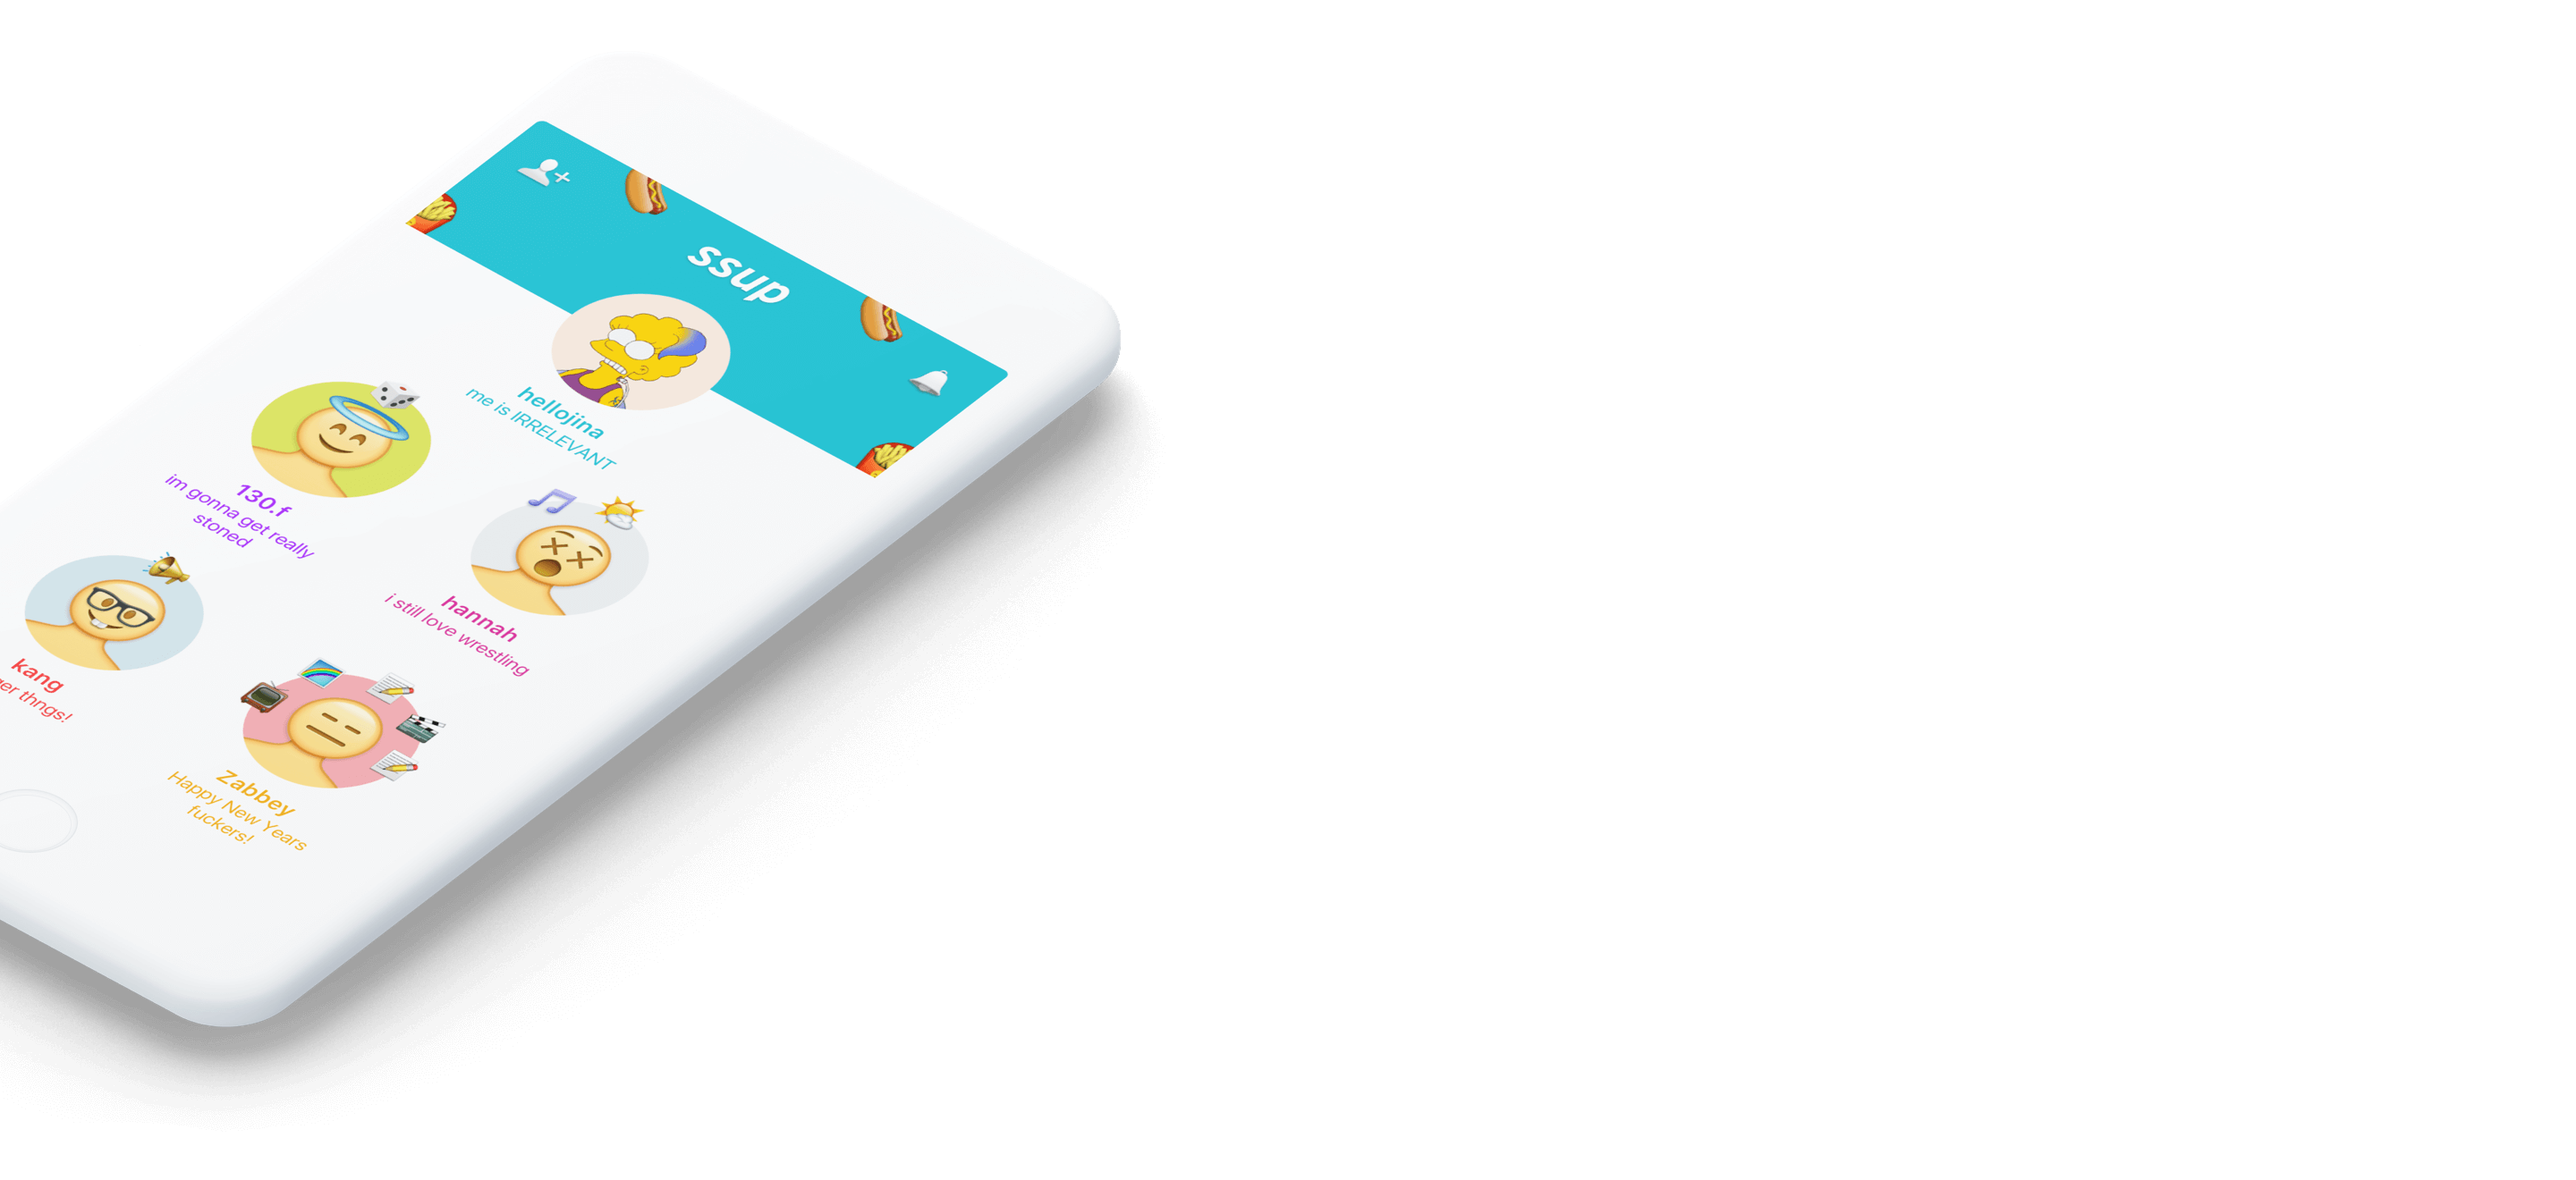
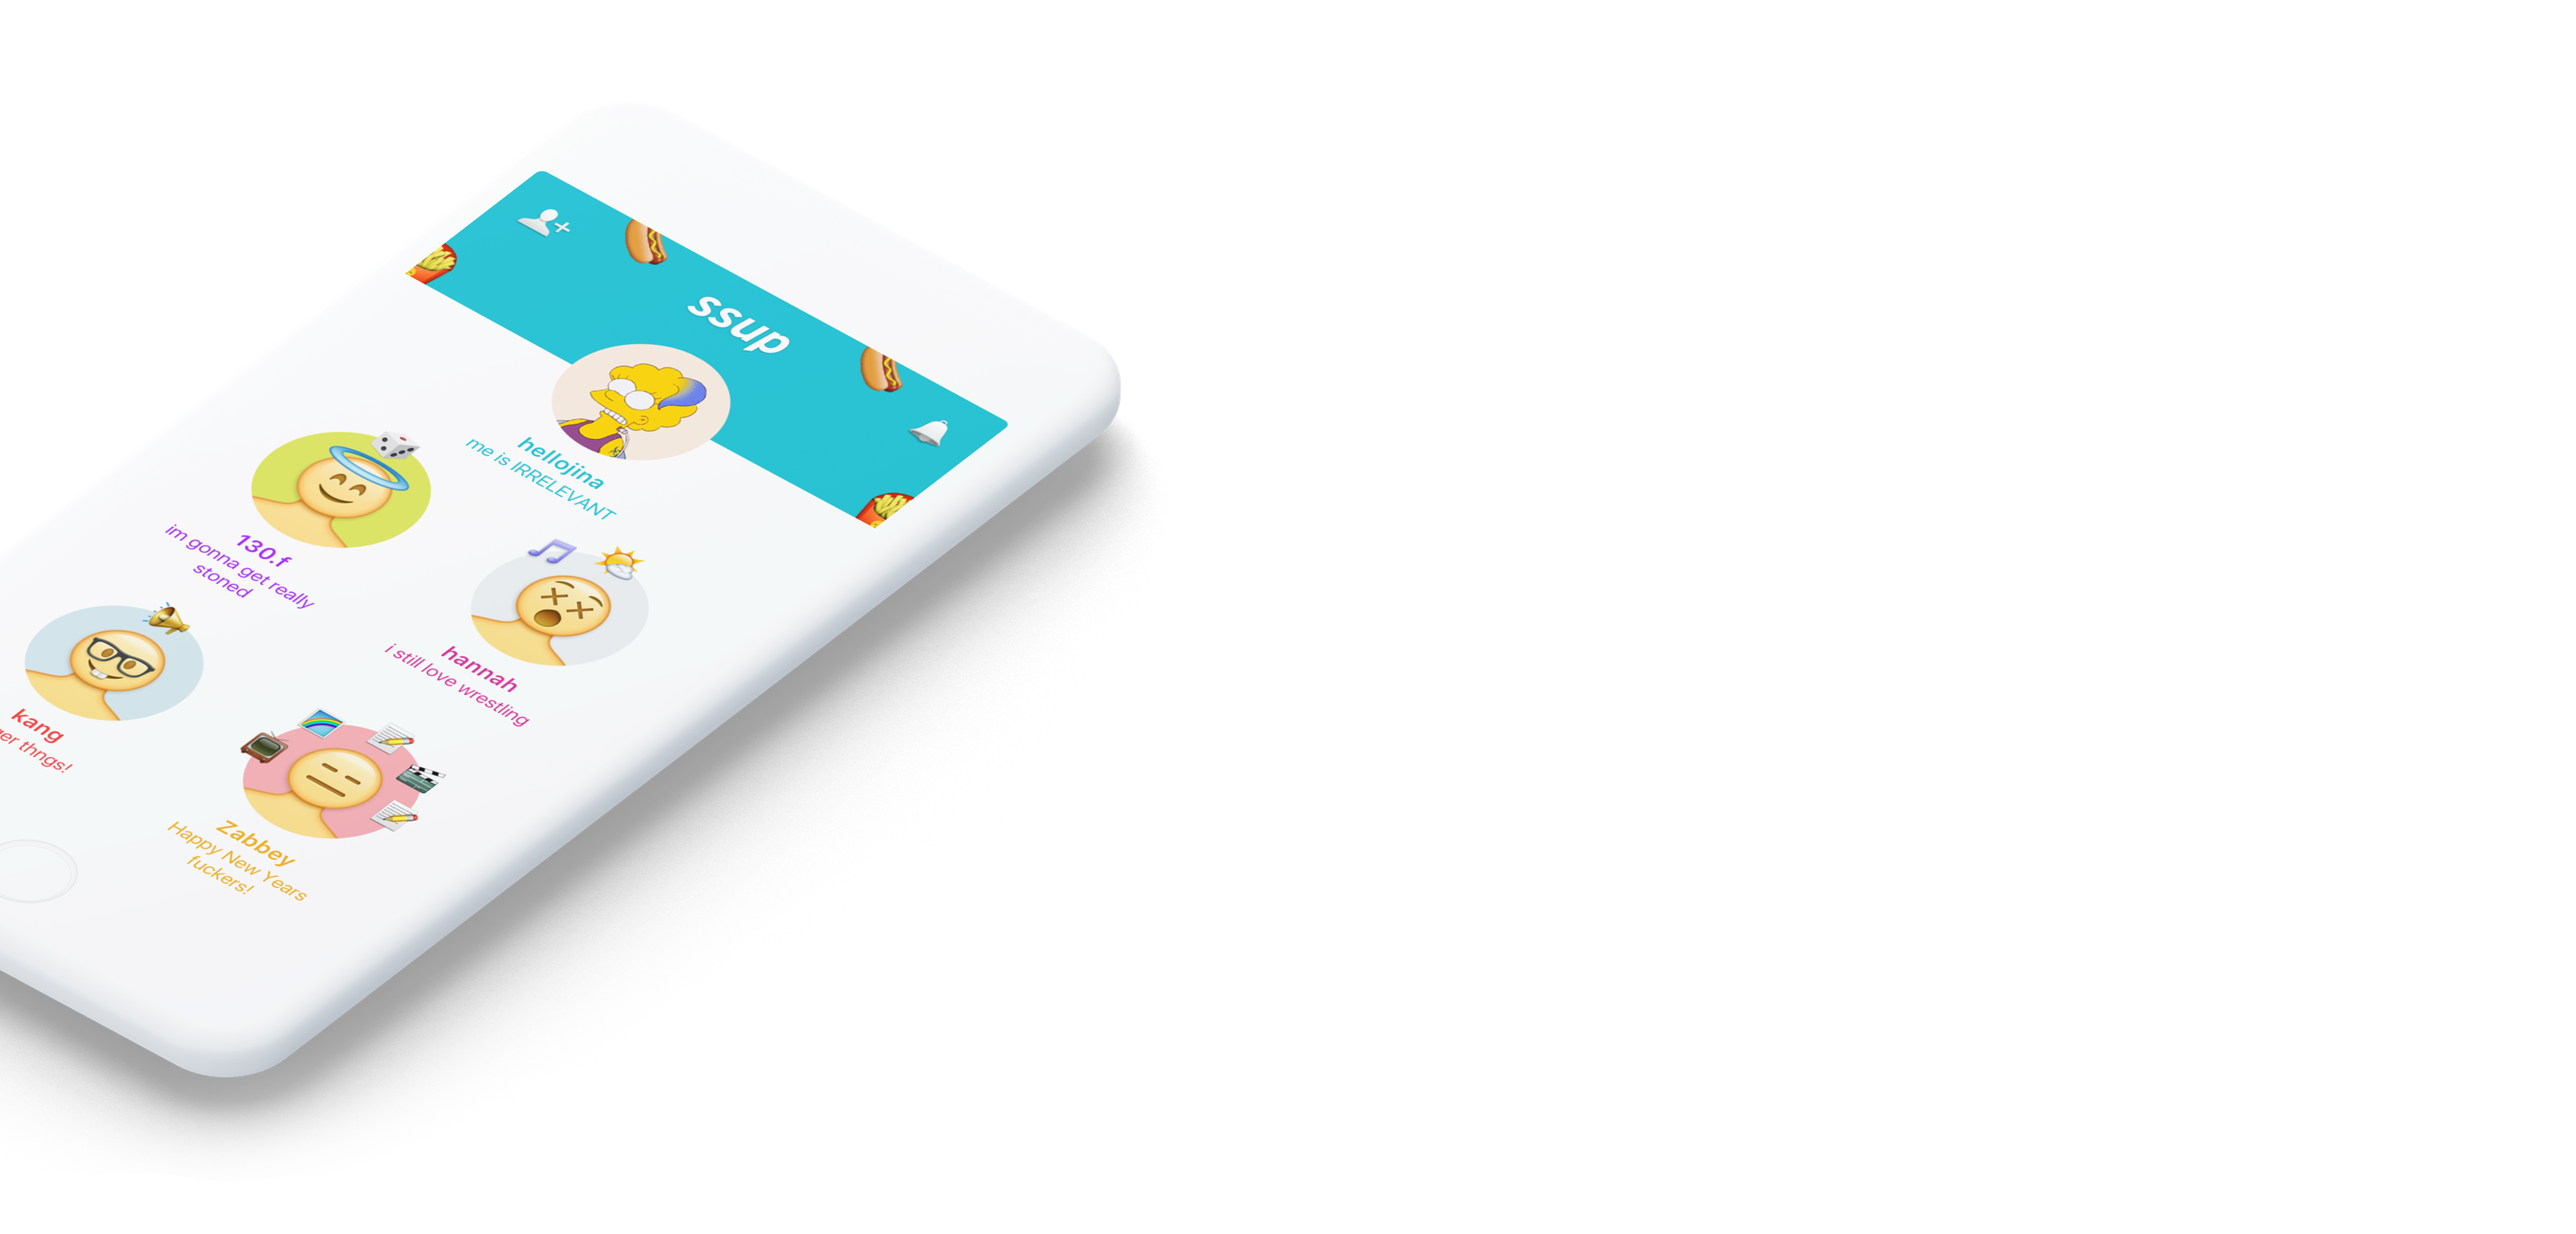
Edit Description

diff --git a/ssup.html b/ssup.html
@@ -42,29 +42,30 @@
     </div><!-- /container-->
 </div><!-- /detailtop-->
 
+
+<div class="des">
+    <img src="./img/ssup/ssup_img01.png" class="des01 width100">
     
-<div class="des" id="ssup_des">
     <div class="container">
-        <div class="row">
-            
-            <div class="col-xl-6 offset-xl-6 col-lg-6 offset-lg-6 col-md-12 col-sm-12">
-
-                <h class="detail_title">
-                    Project Description
-                </h>
-                <p class="margin_top20">
-                    SSUP is a new social media app for Kakao that allows users who have less common interests to upload their honest stories to their home in app. It has a different concept from other social apps. It has some key features that promote unique interactions such as the stickers attached to the posts, the unlimited number of likes, and the ability to write with varied materials, including memes, fortunes and music.
-                </p>
-                <p class="margin_top30">
-                    As a lead designer on the team, I built the app concept and brand identity. According to the concept, I created the product by taking on all responsibilities, including coming up with ideas for features, making hi-fidelity prototypes and the user flow, conducting user tests, and designing marketing promotions.
-                </p>    
-
-            </div>
-        </div>
-    </div>
-</div><!-- /des-->
     
+        <div class="col-xl-5 offset-xl-4 col-lg-5 offset-lg-4 col-md-12 col-sm-12 des02 ">
+            <h class="detail_title">
+                Project Description
+            </h>
+            <p class="margin_top20">
+                SSUP is a new social media app for Kakao that allows users who have less common interests to upload their honest stories to their home in app. It has a different concept from other social apps. It has some key features that promote unique interactions such as the stickers attached to the posts, the unlimited number of likes, and the ability to write with varied materials, including memes, fortunes and music.
+            </p>
+            <p class="margin_top30">
+                As a lead designer on the team, I built the app concept and brand identity. According to the concept, I created the product by taking on all responsibilities, including coming up with ideas for features, making hi-fidelity prototypes and the user flow, conducting user tests, and designing marketing promotions.
+            </p>    
 
+        </div>
+        <div class="col-2"></div>
+    
+    </div>
+</div>  
+
+    
 <div class="container margin_top100 margin_bottom80">
     <div class="col-xl-8 offset-xl-2 col-lg-8 offset-lg-2 col-md-12 col-sm-12 ssup_problem01">
         <h class="detail_title">

diff --git a/style.css b/style.css
@@ -306,18 +306,6 @@ body {
 
 /* description */
 
-.des {
-    padding-top: 80px;
-    padding-bottom: 80px;
-    background-color: #F7F8F9;
-}
-
-#ssup_des {
-    background-image: url('./img/ssup/ssup_img01.png');
-    background-size: 100%;
-    background-position: left;
-    background-repeat: no-repeat;
-}
 
 .ssup_problem p {
     margin-top: 30px;
@@ -449,6 +437,15 @@ body {
         font-size: 36px;
     }
     
+    .des {
+        background-color: #F7F8F9;
+        padding-bottom: 80px;
+    }
+    
+    .des01 {
+        width: 160%;
+        margin-top: 30px;
+    }
     
     .info01 {
         font-size: 40px;
@@ -557,6 +554,18 @@ body {
     
 /* detail */
     
+
+    .des {
+        background-color: #F7F8F9;
+        padding-bottom: 80px;
+    }
+    
+    .des01 {
+        width: 130%;
+        margin-top: 30px;
+    }
+    
+    
     .info01 {
         font-size: 55px;
     }
@@ -661,6 +670,27 @@ body {
 
 /* detail */
     
+
+    .des {
+        position: relative;
+        width: 100%;
+        height: 0;
+        padding-bottom: 85%;
+        background-color: #F7F8F9;
+    } 
+
+    .des01 {
+        position: absolute;
+        top: 20%;
+    }
+    
+    .des02 {
+        position: absolute;
+        z-index: 1000;
+        top: 13%;
+        background-color: #F7F8F9;
+    }
+    
     .detail_title, .detail_title02 {
         font-size: 42px;
     }
@@ -721,7 +751,7 @@ body {
         margin-top: 60px;
     }
     
-     .ssup_write02 {
+    .ssup_write02 {
         width: 60%;
         display: block;
         margin-left: auto;
@@ -788,6 +818,7 @@ body {
     
     
     /* detail */
+
     
     .detail_title, .detail_title02 {
         font-size: 42px;
@@ -801,6 +832,31 @@ body {
         margin-top: 30px;
         width: 90%;
     }
+    
+    .des {
+        position: relative;
+        width: 100%;
+        height: 0;
+        padding-bottom: 65%;
+        background-color: #F7F8F9;
+    } 
+    
+    .des container {
+        margin-bottom: 80px;
+    }
+
+    .des01 {
+        position: absolute;
+        top: 15%;
+    }
+    
+    .des02 {
+        position: absolute;
+        z-index: 1000;
+        top: 13%;
+    }
+    
+
     
     .ssup_structure_img {
         width: 60%;
@@ -842,7 +898,6 @@ body {
         width: 100%;
         padding-bottom: 85%;
     } 
-
     
     .ssup_emoji01 {
         position: absolute;
